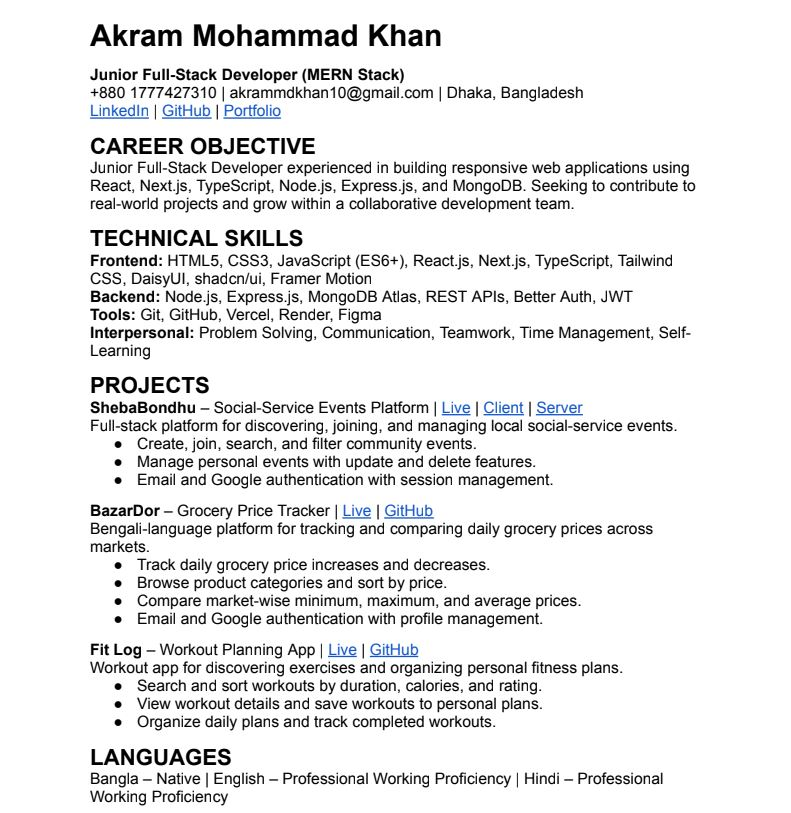
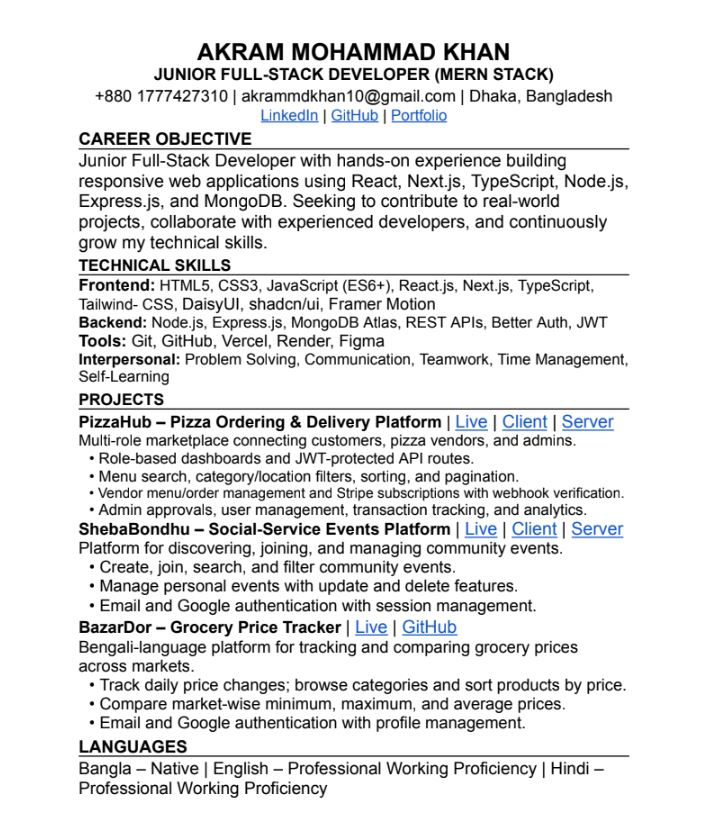
feat: add updated resume with download PDF link

diff --git a/src/components/ResumeModal.tsx b/src/components/ResumeModal.tsx
@@ -9,7 +9,7 @@ type ResumeModalProps = {
   onClose: () => void;
 };
 
-const RESUME_PDF = "https://drive.google.com/file/d/1CohxEl0EnEXOJPswLZ6IqjbCb5w7hrnr/view?usp=drive_link";
+const RESUME_PDF = "https://drive.google.com/file/d/1SiGFxANMtPuxNGz8ThcsX6q1A9N2Rmfb/view?usp=sharing";
 
 // ✏ one image per page. Add "/resume-2.png" here if you have 2 pages
 const RESUME_PAGES = ["/resume-1.JPG"];
